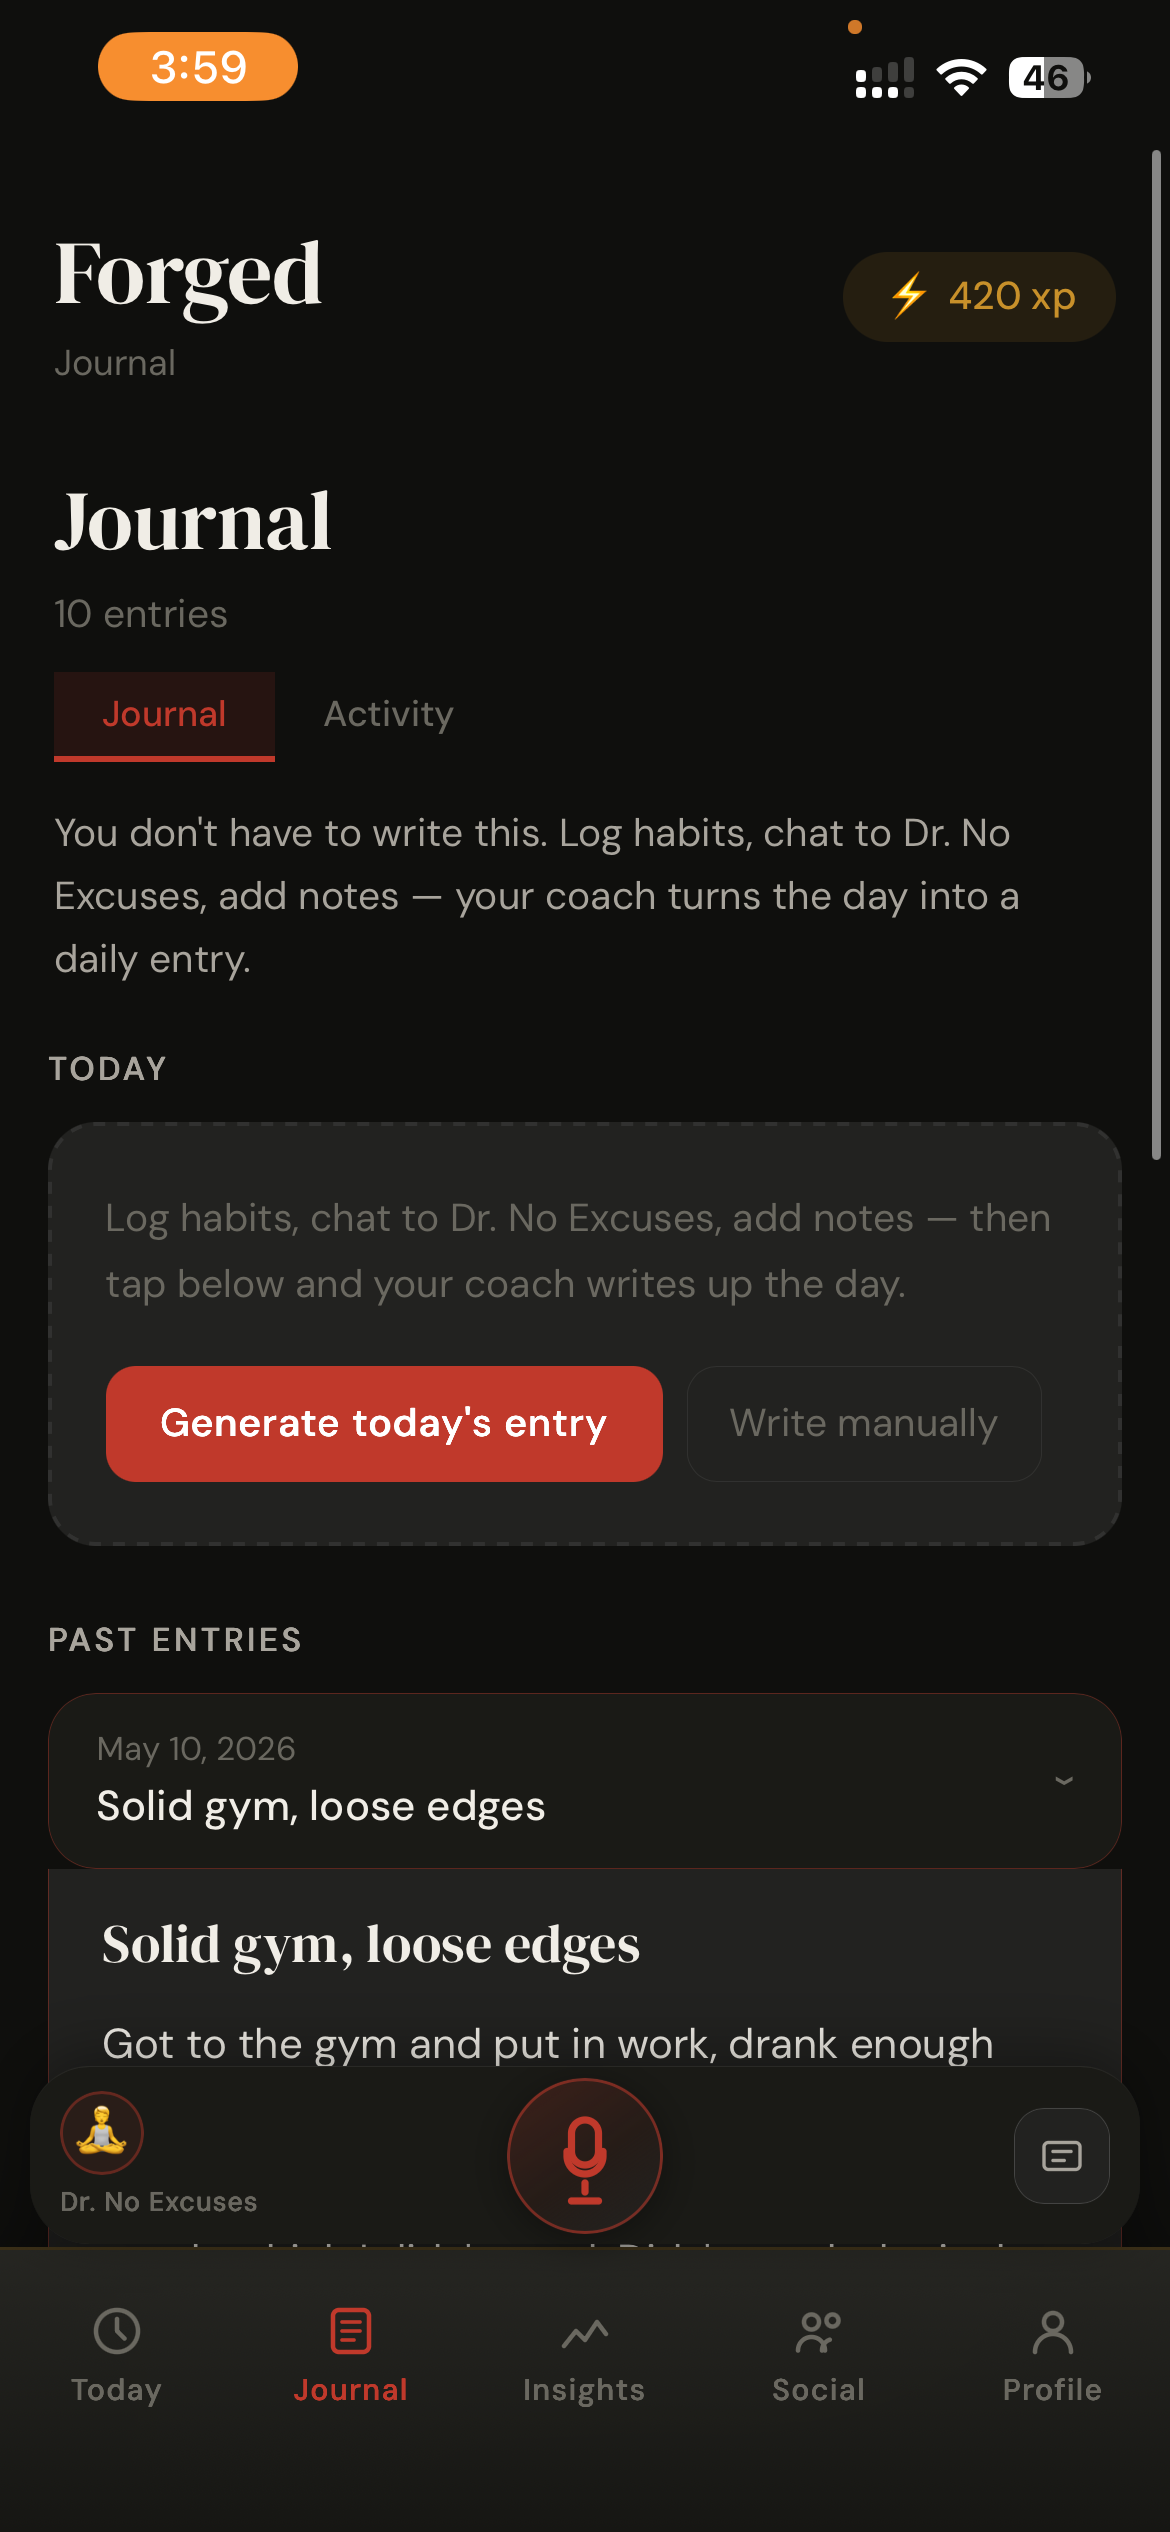
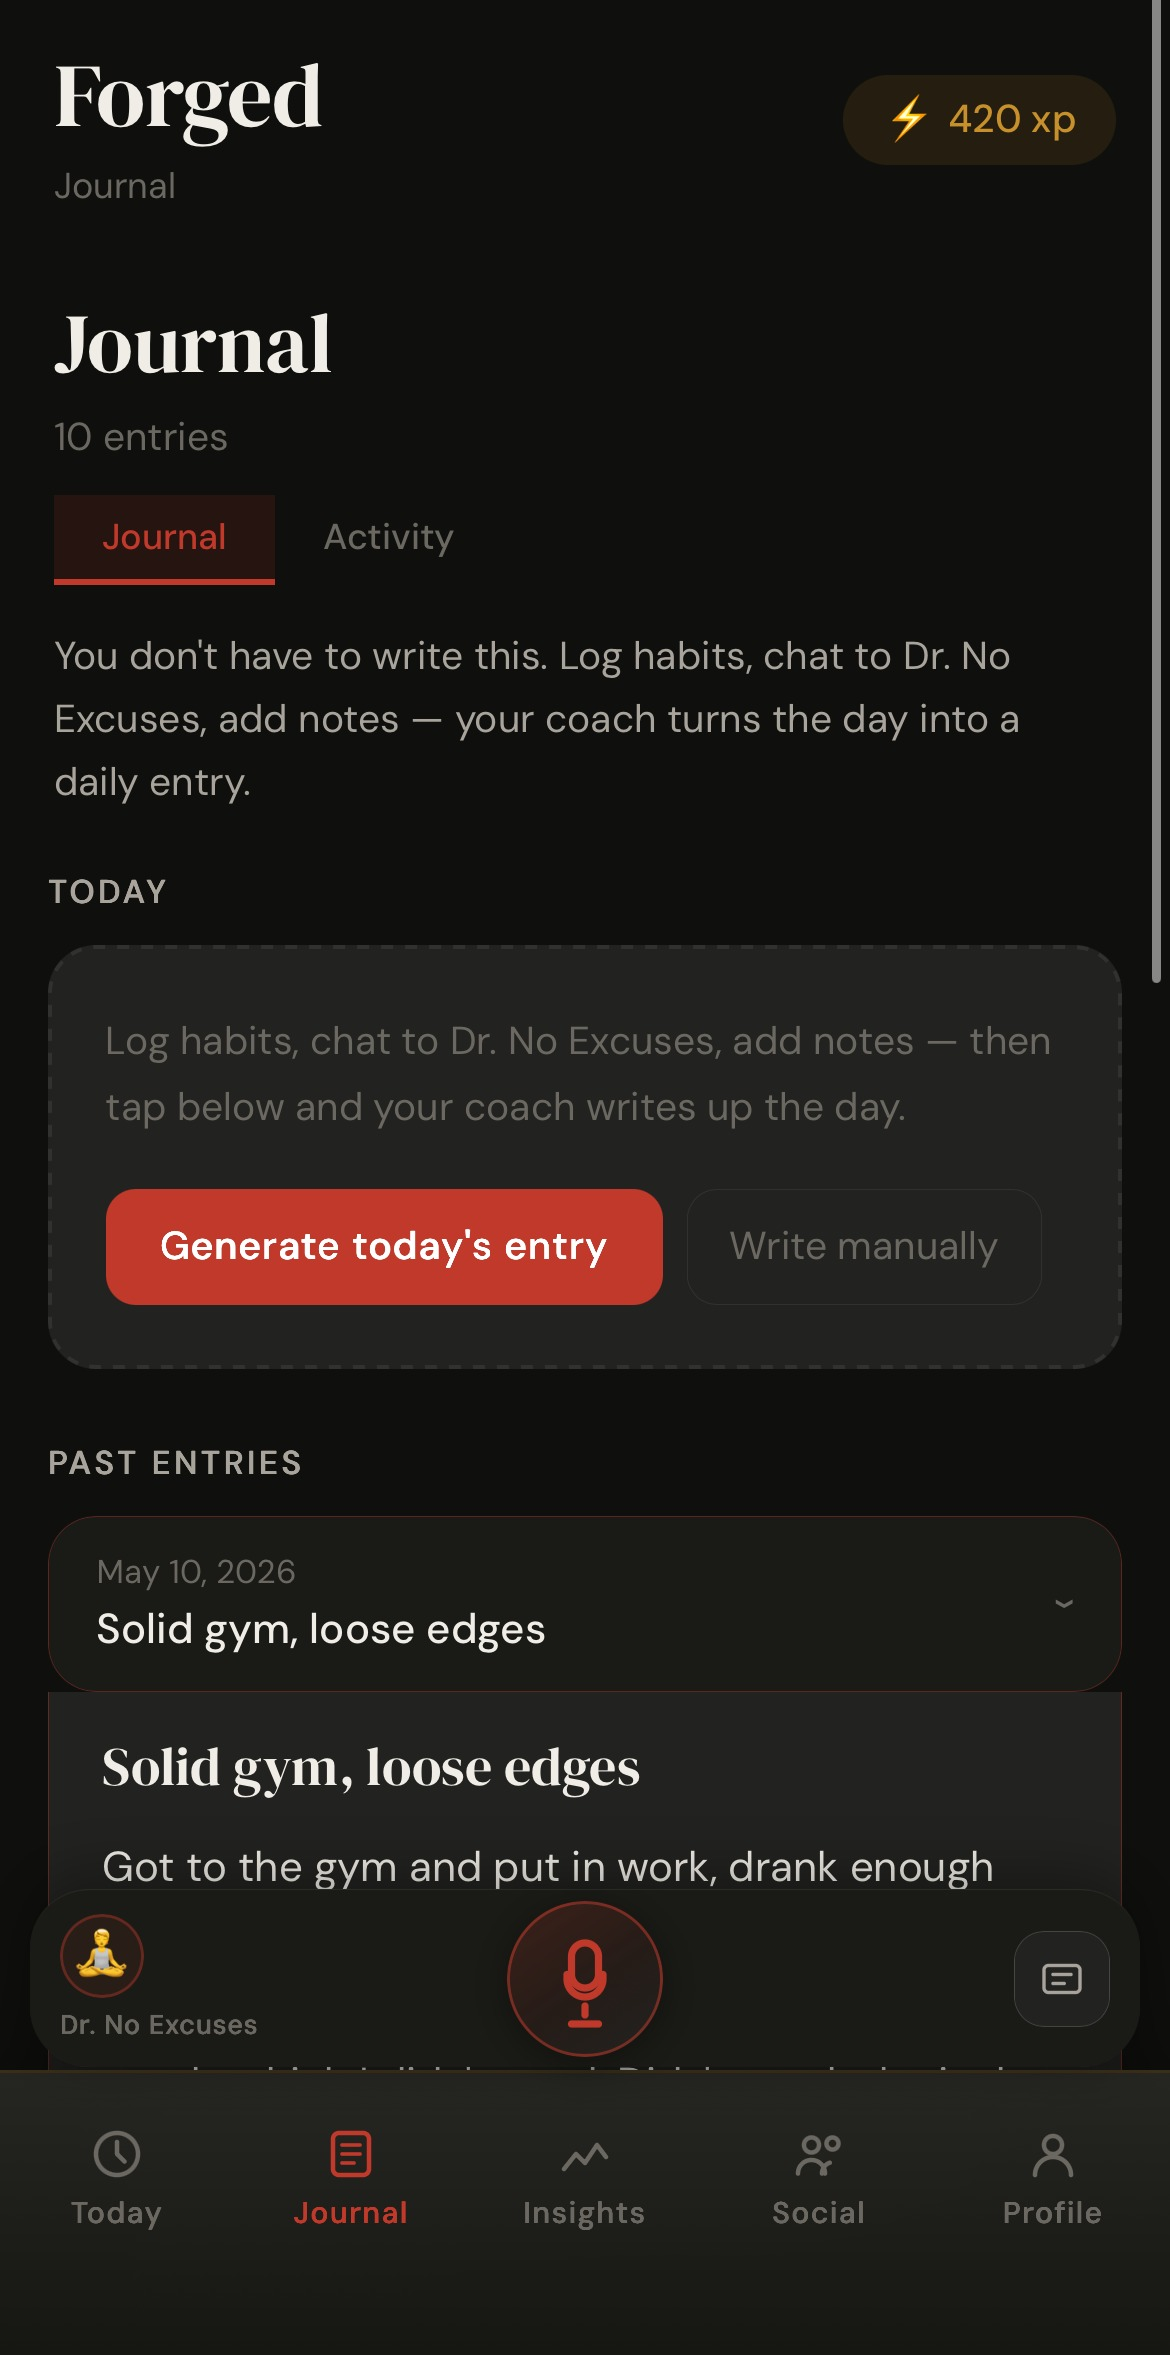
Landing: crop screenshots and fix phone frame display
- journal.jpg: remove iOS status bar from top so frame starts at Forged
- today.jpg: remove bottom tab bar, no extraneous chrome at either end
- landing.html: object-position today -> center 0% so Forged shows from top

diff --git a/public/landing.html b/public/landing.html
@@ -206,7 +206,7 @@ h1.hero-head em { font-style: italic; color: var(--accent); }
   display: block;
 }
 /* Crop positions per screen */
-.phone-img-wrap.today img   { object-position: center 15%; }
+.phone-img-wrap.today img   { object-position: center 0%; }
 .phone-img-wrap.journal img { object-position: center 0%; }
 .phone-img-wrap.entry img   { object-position: center 55%; }
 
